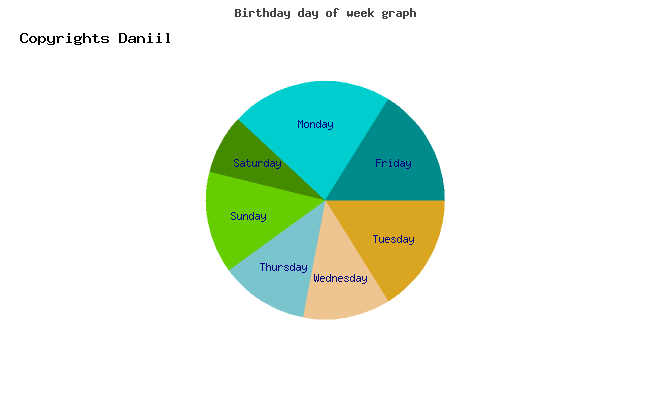
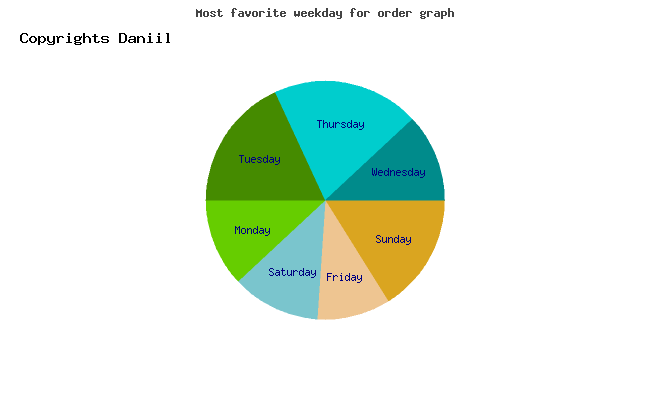
Fixed some bugs practice 6

Changed region(s): [[0.3077, 0.24, 0.6462, 0.81], [0.3077, 0.0, 0.7077, 0.06], [0.5846, 0.57, 0.6462, 0.63]]

diff --git a/practice_6/apache/src/statistic/statistics.php b/practice_6/apache/src/statistic/statistics.php
@@ -27,16 +27,13 @@ function stamp(string $water): GdImage | bool {
 function watermark(string $image) {
 // Load the stamp and the photo to apply the watermark to
     $im = imagecreatefrompng($image);
-    $whitecolor = imagecolorallocate($im, 25, 233, 12);
     $blackcolor = imagecolorallocate($im, 0, 0, 0);
     imagestring($im, 5, 20, 30, 'Copyrights Daniil', $blackcolor);
     header("Content-type: image/png");
     imagepng($im, $image);
+    //imagecopymerge();
 }
 
-//watermark(draw_bar_plot(), stamp("Watermark by Daniil"));
-//watermark((), stamp("Watermark by Daniil"));
-//watermark((), stamp("Watermark by Daniil"));
 
 draw_bar_plot();
 draw_line_plot();
@@ -50,13 +47,13 @@ watermark("images/pie_graph.png");
 <img src="images/line_graph.png" alt="plot_2.png">
 <img src="images/pie_graph.png" alt="plot_3.png">
 
-<table class="table">
+<table class="table" style="width: 100%; text-align: start">
     <tr>
         <th>Name</th>
-        <th>Color</th>
+        <th>Address</th>
         <th>Month</th>
-        <th>Weekday</th>
-        <th>Day of month</th>
+        <th>Most favorite week day</th>
+        <th>Amount of orders</th>
     </tr>
     <?php
     $data = get_data();
@@ -64,10 +61,10 @@ watermark("images/pie_graph.png");
     foreach ($data as $data_row) {
         echo "<tr>";
         echo "<td>".$data_row->name."</td>";
-        echo "<td>".$data_row->color."</td>";
+        echo "<td>".$data_row->address."</td>";
         echo "<td>".$data_row->month."</td>";
         echo "<td>".$data_row->weekday."</td>";
-        echo "<td>".$data_row->day."</td>";
+        echo "<td>".$data_row->orders."</td>";
         echo "</tr>";
     }
     ?>

diff --git a/practice_6/apache/src/statistic/fixture.php b/practice_6/apache/src/statistic/fixture.php
@@ -9,11 +9,11 @@ function generate_data()
 
     $faker = Faker\Factory::create();
     $faker->addProvider(new Faker\Provider\ru_RU\Person($faker));
-    $faker->addProvider(new Faker\Provider\ru_RU\Color($faker));
+    $faker->addProvider(new Faker\Provider\ru_RU\Address($faker));
     for ($i = 0; $i < 50; $i++) {
         $data_row = new DataInstance(
             $faker->name(),
-            $faker->colorName(),
+            $faker->address(),
             $faker->monthName(),
             $faker->dayOfWeek,
             $faker->numberBetween(1,15)
@@ -26,8 +26,6 @@ function generate_data()
 
 
 function get_data() {
-/*    $loader = new Nelmio\Alice\Loader\NativeLoader();
-    $fixtures = $loader->loadFile('./fixtures.yml');*/
     $input = file_get_contents('fixtures.json');
     return json_decode($input);
 }
@@ -58,15 +56,15 @@ function get_month_count(): array {
     return array("keys" => array_keys($month_count), "values" => array_values($month_count));
 }
 
-function get_day_count(): array {
+function get_orders_count(): array {
     $data = get_data();
-    $day_count = array();
+    $order_count = array();
     foreach ($data as $obj) {
-        $day = $obj->day;
-        if (!isset($day_count[$day])) {
-            $day_count[$day] = 0;
+        $orders = $obj->orders;
+        if (!isset($order_count[$orders])) {
+            $order_count[$orders] = 0;
         }
-        $day_count[$day] += 1;
+        $order_count[$orders] += 1;
     }
-    return array("keys" => array_keys($day_count), "values" => array_values($day_count));
+    return array("keys" => array_keys($order_count), "values" => array_values($order_count));
 }

diff --git a/practice_6/apache/src/statistic/line_graph.php b/practice_6/apache/src/statistic/line_graph.php
@@ -1,7 +1,5 @@
 <?php
-/*
-require_once '/var/www/html/jpgraph/jpgraph.php';
-require_once '/var/www/html/jpgraph/jpgraph_line.php';*/
+
 require_once 'fixture.php';
 require_once '/var/www/html/vendor/autoload.php';
 
@@ -11,7 +9,7 @@ use Amenadiel\JpGraph\Plot;
 function draw_line_plot() : void
 {
 
-    $graph_data = get_day_count();
+    $graph_data = get_orders_count();
     $ydata = $graph_data["values"];
     $xdata = $graph_data["keys"];
 
@@ -28,14 +26,14 @@ function draw_line_plot() : void
 
     $graph->Add($lineplot);
 
-    $graph->title->Set('Birthday day of month graph');
+    $graph->title->Set('Amount of orders');
 
     $graph->title->SetFont(FF_ARIAL, FS_NORMAL);
     $graph->xaxis->title->SetFont(FF_VERDANA, FS_ITALIC);
     $graph->yaxis->title->SetFont(FF_TIMES, FS_BOLD);
 
-    $graph->xaxis->title->Set('Day of month');
-    $graph->yaxis->title->Set('Birthdays amount');
+    $graph->xaxis->title->Set('Amount of orders');
+    $graph->yaxis->title->Set('Persons with this amount');
 
     $graph->xaxis->SetColor('#СС0000');
     $graph->yaxis->SetColor('#СС0000');
@@ -46,11 +44,9 @@ function draw_line_plot() : void
 
     $graph->SetShadow(2);
 
-    $graph->title->Set("Birthday day of month graph");
+    $graph->title->Set("Orders amount graph");
 
     $graph->title->SetFont(FF_FONT1, FS_BOLD);
 
     $graph->Stroke('images/line_graph.png');
-
-    //return $graph->Stroke('/var/www/html/statistic/images/line_graph.png');
 }

diff --git a/practice_6/apache/src/statistic/DataInstance.php b/practice_6/apache/src/statistic/DataInstance.php
@@ -3,25 +3,25 @@
 class DataInstance
 {
     public string $name;
-    public string $color;
+    public string $address;
     public string $month;
     public string $weekday;
-    public int $day;
+    public int $orders;
 
     /**
      * @param string $name
-     * @param string $color
+     * @param string $address
      * @param string $month
      * @param string $weekday
-     * @param int $day
+     * @param int $orders
      */
-    public function __construct(string $name, string $color, string $month, string $weekday, int $day)
+    public function __construct(string $name, string $address, string $month, string $weekday, int $orders)
     {
         $this->name = $name;
-        $this->color = $color;
+        $this->address = $address;
         $this->month = $month;
         $this->weekday = $weekday;
-        $this->day = $day;
+        $this->orders = $orders;
     }
 
 

diff --git a/practice_6/apache/src/statistic/pie_graph.php b/practice_6/apache/src/statistic/pie_graph.php
@@ -1,7 +1,5 @@
 <?php
-/*
-require_once '/var/www/html/jpgraph/jpgraph.php';
-require_once '/var/www/html/jpgraph/jpgraph_pie.php';*/
+
 require_once 'fixture.php';
 require_once '/var/www/html/vendor/autoload.php';
 
@@ -26,7 +24,7 @@ function draw_pie_plot() : void
 
     $pieplot->SetLabels($labels);
 
-    $graph->title->Set('Birthday day of week graph');
+    $graph->title->Set('Most favorite weekday for order graph');
 
     $graph->Add($pieplot);
 
@@ -36,9 +34,5 @@ function draw_pie_plot() : void
 
     $graph->title->SetFont(FF_FONT1, FS_BOLD);
 
-    $graph->title->Set("Birthday day of week graph");
-
     $graph->Stroke('images/pie_graph.png');
-
-    //return $graph->Stroke('/var/www/html/statistic/images/pie_graph.png');
 }

diff --git a/practice_6/apache/src/statistic/bar_graph.php b/practice_6/apache/src/statistic/bar_graph.php
@@ -1,7 +1,5 @@
 <?php
 
-/*require_once '/var/www/html/jpgraph/jpgraph.php';
-require_once '/var/www/html/jpgraph/jpgraph_bar.php';*/
 require_once 'fixture.php';
 require_once '/var/www/html/vendor/autoload.php';
 
@@ -33,6 +31,4 @@ function draw_bar_plot(): void
     $graph->Add($barplot);
 
     $graph->Stroke('images/bar_graph.png');
-
-    //return $graph->Stroke('/var/www/html/statistic/images/bar_graph.png');
 }
